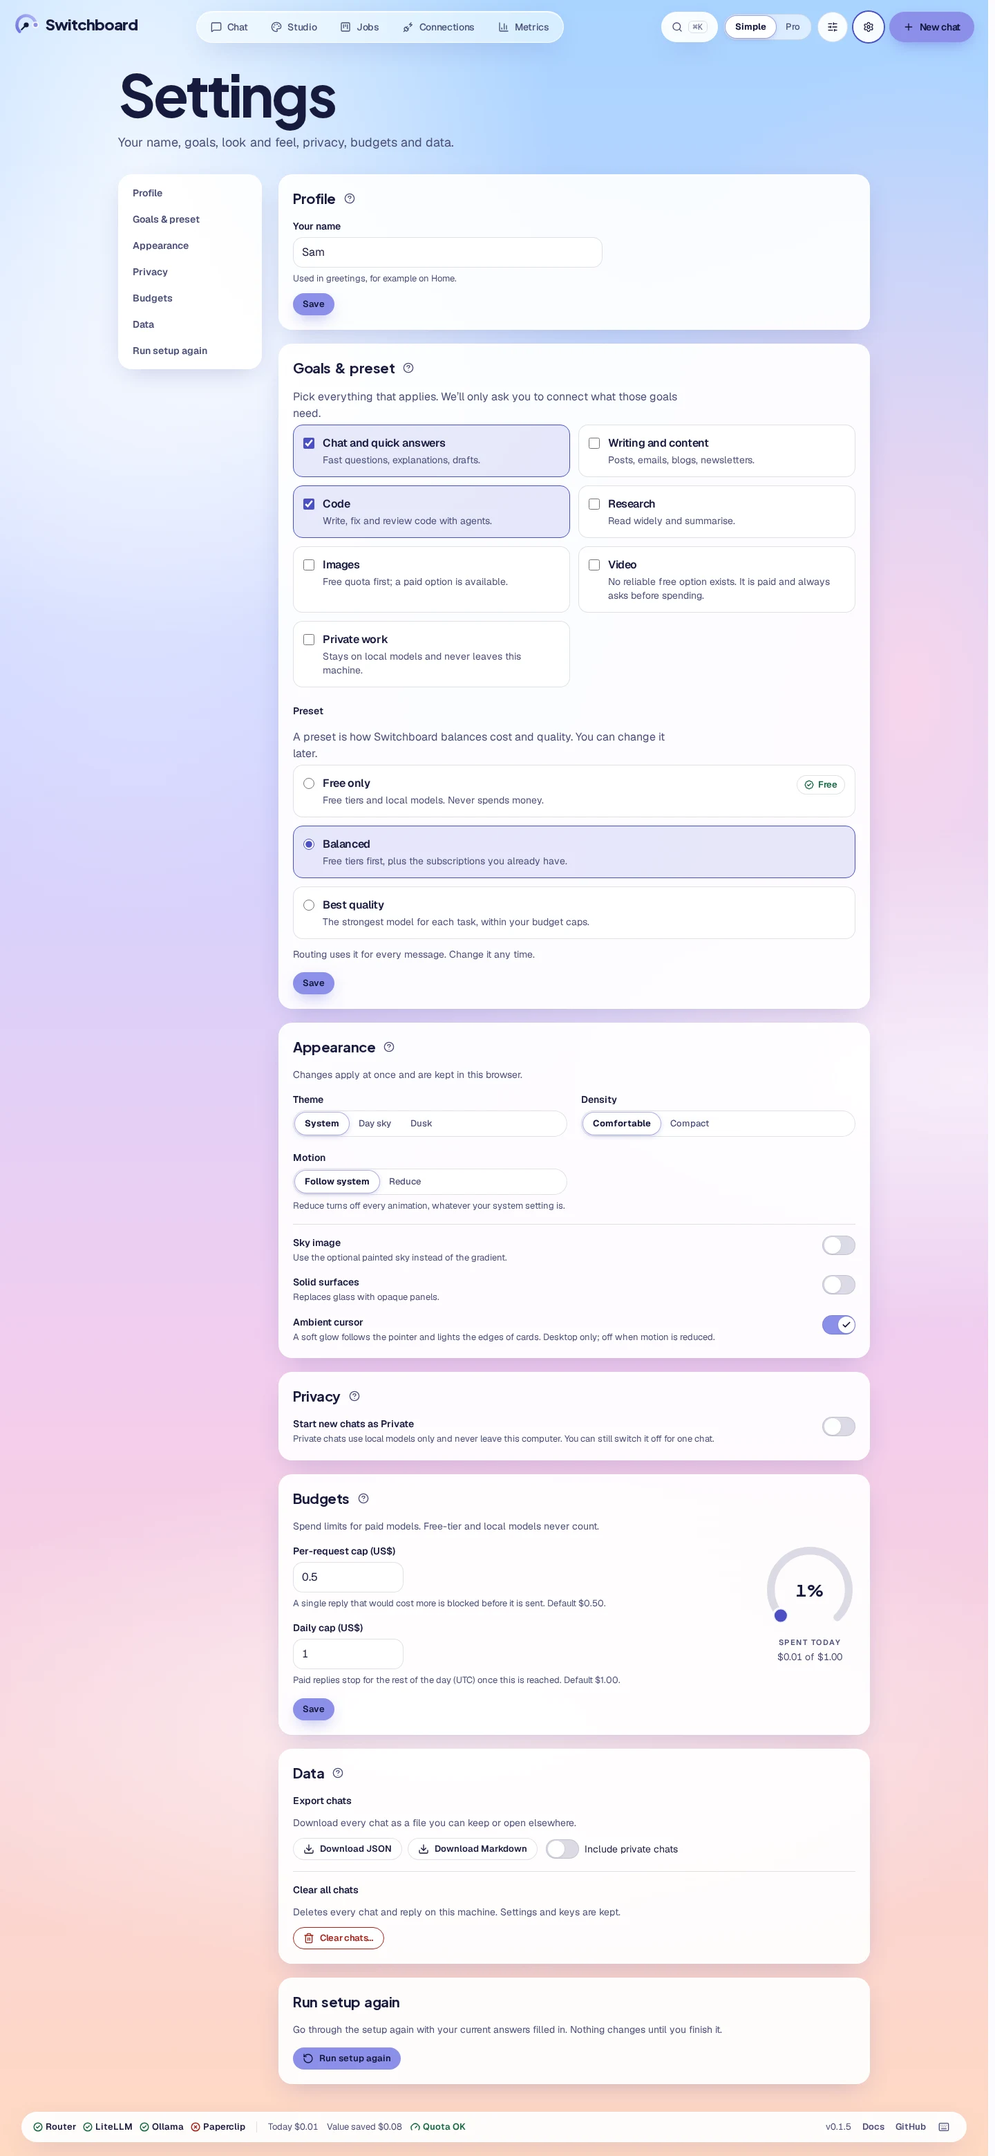
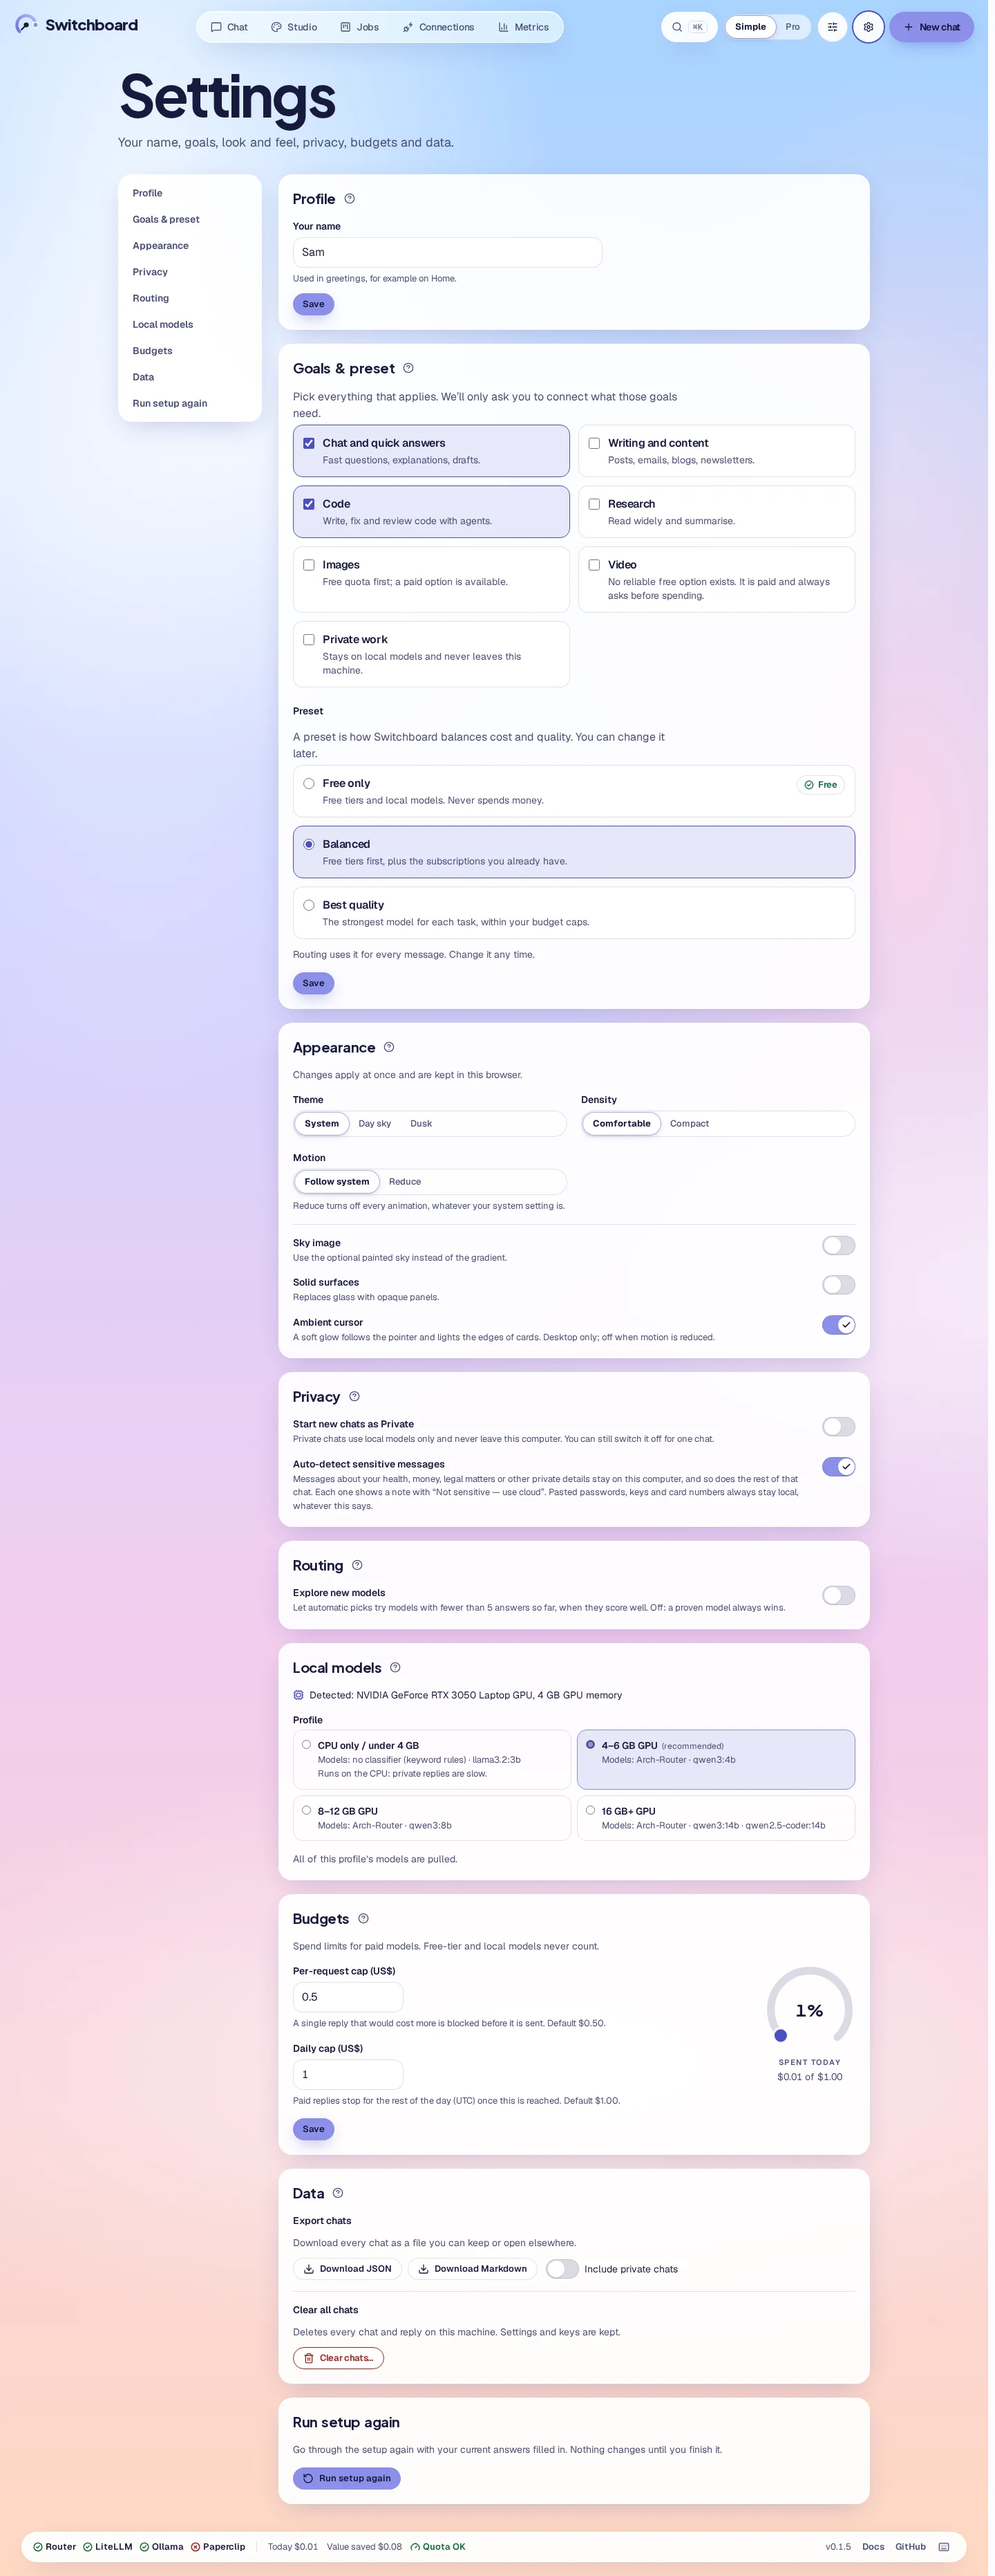
M3a: llama3.2:3b writes titles and summaries; secret reply note; version 0.3.0
qwen3:4b writes its reasoning into the answer even with think:false (verified live: every title fell
back to the first words, summaries began "We are given..."), so the GPU profiles' tasks model is
llama3.2:3b, as the plan's fallback said. Secrets get their own reply note. Router 0.3.0.

Changed region(s): [[0.0312, 0.0, 0.9688, 0.9955], [0.6562, 0.0, 0.9688, 0.0311]]

diff --git a/apps/portal/src/lib/server/fixtures.ts b/apps/portal/src/lib/server/fixtures.ts
@@ -198,9 +198,9 @@ const g = globalThis as unknown as { __sbFixture?: Store };
 const ARCH = "hf.co/katanemo/Arch-Router-1.5B.gguf:Q4_K_M";
 const LOCAL_PROFILES: LocalProfile[] = [
   { name: "none", label: "CPU only / under 4 GB", min_vram_gb: 0, classifier: null, general: "llama3.2:3b", tasks: null, coder: "llama3.2:3b", cpu: true, max_loaded: 1, models: ["llama3.2:3b"] },
-  { name: "small", label: "4–6 GB GPU", min_vram_gb: 4, classifier: ARCH, general: "qwen3:4b", tasks: "qwen3:4b", coder: "qwen3:4b", cpu: false, max_loaded: 2, models: [ARCH, "qwen3:4b"] },
-  { name: "medium", label: "8–12 GB GPU", min_vram_gb: 8, classifier: ARCH, general: "qwen3:8b", tasks: "qwen3:8b", coder: "qwen3:8b", cpu: false, max_loaded: 2, models: [ARCH, "qwen3:8b"] },
-  { name: "large", label: "16 GB+ GPU", min_vram_gb: 16, classifier: ARCH, general: "qwen3:14b", tasks: "qwen3:14b", coder: "qwen2.5-coder:14b", cpu: false, max_loaded: 2, models: [ARCH, "qwen3:14b", "qwen2.5-coder:14b"] },
+  { name: "small", label: "4–6 GB GPU", min_vram_gb: 4, classifier: ARCH, general: "qwen3:4b", tasks: "llama3.2:3b", coder: "qwen3:4b", cpu: false, max_loaded: 2, models: [ARCH, "qwen3:4b", "llama3.2:3b"] },
+  { name: "medium", label: "8–12 GB GPU", min_vram_gb: 8, classifier: ARCH, general: "qwen3:8b", tasks: "llama3.2:3b", coder: "qwen3:8b", cpu: false, max_loaded: 2, models: [ARCH, "qwen3:8b", "llama3.2:3b"] },
+  { name: "large", label: "16 GB+ GPU", min_vram_gb: 16, classifier: ARCH, general: "qwen3:14b", tasks: "llama3.2:3b", coder: "qwen2.5-coder:14b", cpu: false, max_loaded: 2, models: [ARCH, "qwen3:14b", "llama3.2:3b", "qwen2.5-coder:14b"] },
 ];
 const INSTALLED = ["qwen3:4b", "llama3.2:3b", ARCH];
 

diff --git a/apps/portal/src/components/chat/PrivacyNotes.tsx b/apps/portal/src/components/chat/PrivacyNotes.tsx
@@ -20,8 +20,14 @@ export function SensitiveNote({ s, onOverride }: { s: SensitiveInfo; onOverride?
     <div data-note="sensitive" className="flex flex-wrap items-center gap-2 rounded-control border border-hairline p-2 text-sm">
       <ShieldCheck aria-hidden className="size-4 shrink-0 text-ok" />
       <span className="min-w-0 flex-1">
-        <span className="font-semibold">{tPriv("sensitive.kept", { category })}</span>{" "}
-        <span className="text-ink-muted">{tPriv("sensitive.why")}</span>
+        {s.source === "secret" ? (
+          <span className="font-semibold">{tPriv("sensitive.secretKept")}</span>
+        ) : (
+          <>
+            <span className="font-semibold">{tPriv("sensitive.kept", { category })}</span>{" "}
+            <span className="text-ink-muted">{tPriv("sensitive.why")}</span>
+          </>
+        )}
       </span>
       {s.overridable && onOverride && (
         <Button

diff --git a/apps/portal/tests/m3a.spec.ts b/apps/portal/tests/m3a.spec.ts
@@ -44,7 +44,7 @@ test.describe("chat · privacy notes", () => {
     // masked in the message and in the words title alike
     await expect(page.getByText("why does [secret masked: API key] return 401?")).toBeVisible();
     await expect(page.getByText("Looks like you pasted a secret — kept local and masked. Consider rotating it.")).toBeVisible();
-    await expect(lastReply(page).getByText("Kept local: this looks sensitive (a secret).")).toBeVisible();
+    await expect(lastReply(page).getByText("Kept local: your message had a secret in it, so this chat stays on this machine.")).toBeVisible();
     await expect(page.getByRole("button", { name: "Not sensitive — use cloud" })).toHaveCount(0);
     await expect(page.locator("body")).not.toContainText(KEY);
   });

diff --git a/apps/portal/src/i18n/privacy.ts b/apps/portal/src/i18n/privacy.ts
@@ -6,6 +6,7 @@ export const privacyStrings = {
   sensitive: {
     kept: "Kept local: this looks sensitive ({category}).",
     why: "Messages about health, money, legal matters or other private details stay on this machine, and so does the rest of this chat. Turn this off in Settings → Privacy.",
+    secretKept: "Kept local: your message had a secret in it, so this chat stays on this machine.",
     override: "Not sensitive — use cloud",
     overriding: "Switching to the cloud…",
     category: { health: "health", finance: "money", legal: "legal", personal: "personal details", secret: "a secret" },

diff --git a/services/router/tests/test_summary.py b/services/router/tests/test_summary.py
@@ -41,7 +41,7 @@ async def test_summary_written_after_reply_and_used_next_turn(client, stack, sma
     tid, events = await chat_until_summary(client, stack)
     first_summary = next(i for i, ev in enumerate(events) if any(e == "summary" for e, _ in ev))
     s = next(d for e, d in events[first_summary] if e == "summary")["summary"]
-    assert s["text"].startswith("- The user is planning") and s["model"] == "ollama/qwen3:4b"
+    assert s["text"].startswith("- The user is planning") and s["model"] == "ollama/llama3.2:3b"
     msgs = (
         await session.execute(select(Message).where(Message.thread_id == tid).order_by(Message.id))
     ).scalars()
@@ -50,7 +50,7 @@ async def test_summary_written_after_reply_and_used_next_turn(client, stack, sma
     assert len(msgs) - len(covered) >= 6  # the newest six are never folded in
     # the summarizer ran with thinking off on the local tasks model
     call = next(c for c in stack.ollama.calls if c["messages"][0]["content"].startswith("You keep a running"))
-    assert call["model"] == "qwen3:4b" and call["think"] is False
+    assert call["model"] == "llama3.2:3b" and call["think"] is False
     # the next turn sends the note + only the uncovered messages
     await turn(client, text="and now?", thread_id=tid)
     sent = stack.stream_calls[-1]["messages"]

diff --git a/services/router/tests/test_local_profile.py b/services/router/tests/test_local_profile.py
@@ -60,7 +60,7 @@ async def test_profile_api(client, litellm, session, hw):
     await local_profile.init(session)
     v = (await client.get("/system/local-profile")).json()
     assert v["active"] == "small" and v["detected"]["vram_gb"] == 4.0
-    assert v["missing"] == ["hf.co/katanemo/Arch-Router-1.5B.gguf:Q4_K_M"]
+    assert v["missing"] == ["hf.co/katanemo/Arch-Router-1.5B.gguf:Q4_K_M", "llama3.2:3b"]
     assert {p["name"] for p in v["profiles"]} == {"none", "small", "medium", "large"}
     r = await client.put("/system/local-profile", json={"profile": "large"}, headers=ADMIN)
     assert r.status_code == 200 and r.json()["active"] == "large" and r.json()["overridden"]

diff --git a/services/router/tests/test_chat.py b/services/router/tests/test_chat.py
@@ -445,7 +445,7 @@ async def test_title_from_local_model_then_rename(client, stack, session):
     assert t["title"] == "Centering a div in CSS" and t["source"] == "local"
     # M3a: the local profile's tasks model writes it through Ollama, thinking off; never the cloud
     call = next(c for c in stack.ollama.calls if c["messages"][0]["content"].startswith("Write a title"))
-    assert call["model"] == "qwen3:4b" and call["think"] is False
+    assert call["model"] == "llama3.2:3b" and call["think"] is False
     assert not stack.chat_calls
     tid = t["thread_id"]
     r = await client.patch(f"/chat/threads/{tid}", json={"title": "CSS notes"}, headers=ADMIN)
